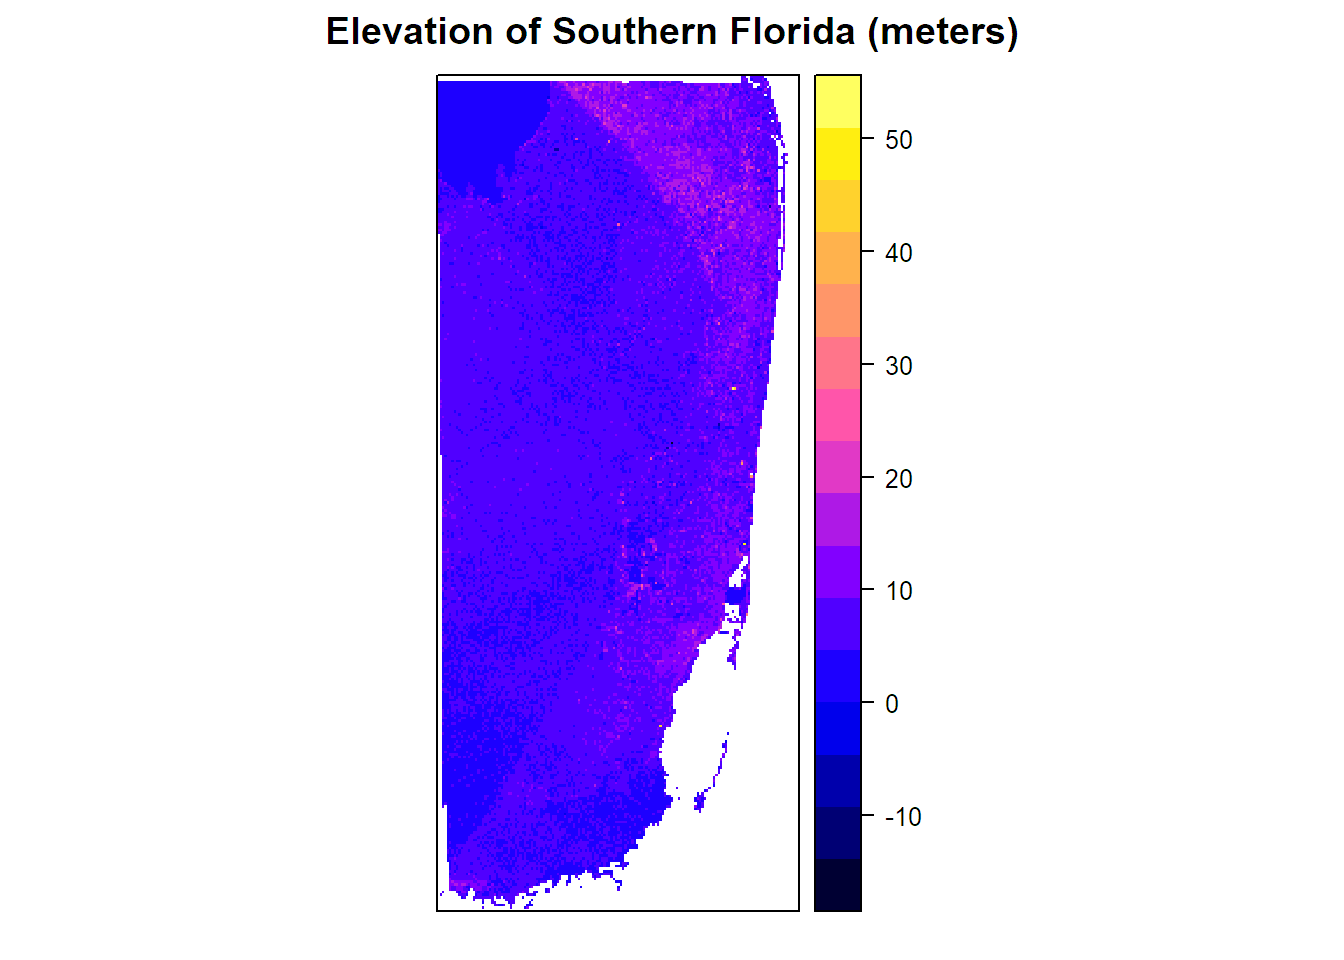
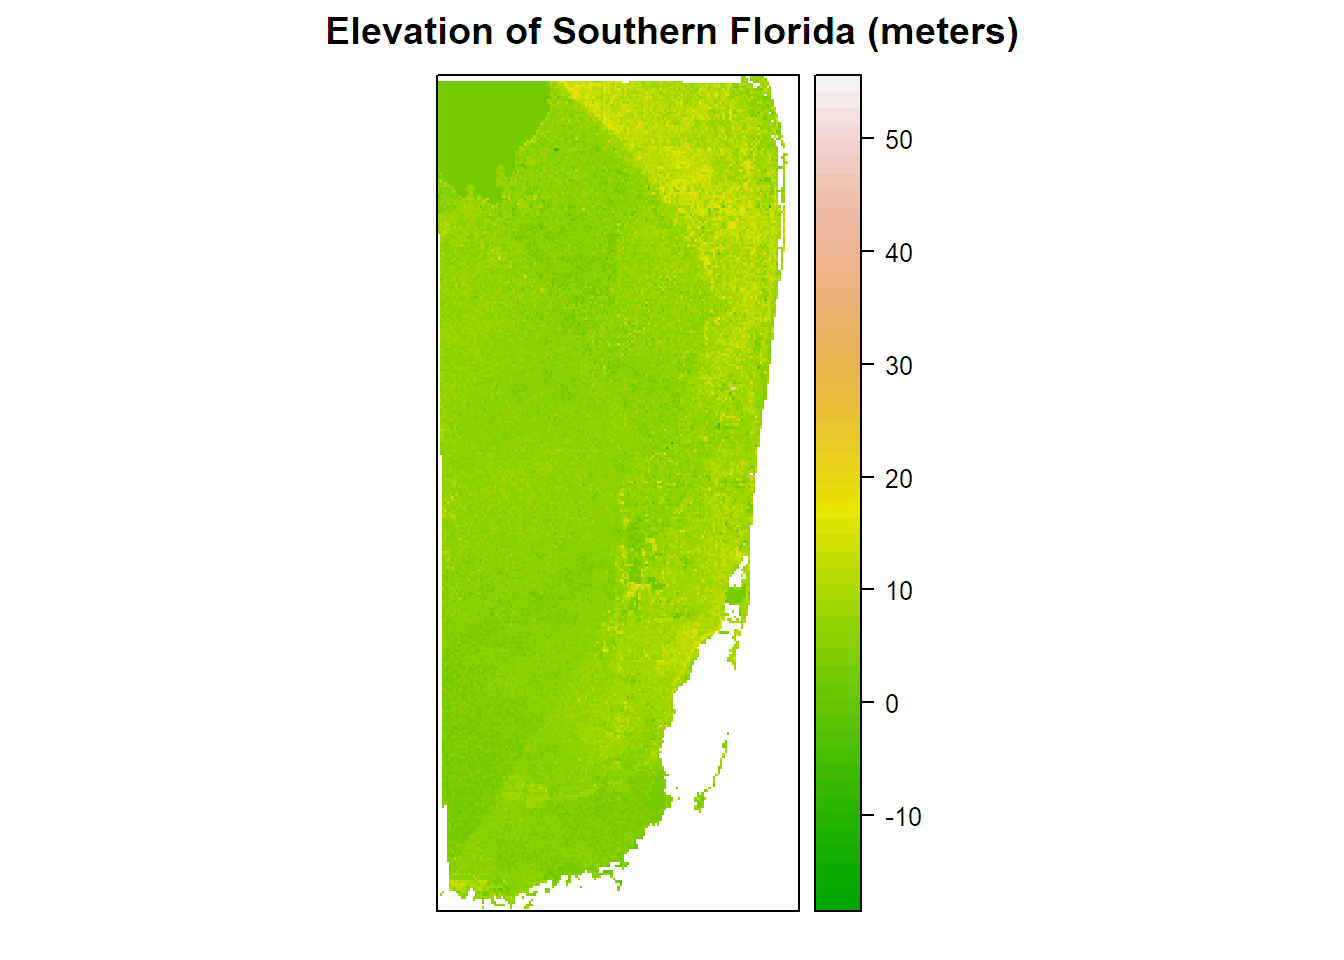
final draft

Changed region(s): [[0.3125, 0.0625, 0.6562, 0.9688]]

diff --git a/docs/index.html b/docs/index.html
@@ -344,23 +344,25 @@ comb&lt;-rbind(brwd,mi_da,plmbch)</code></pre>
 <pre class="r"><code>dem_fl&lt;-getData(&quot;SRTM&quot;,lon=-82.5,lat=27.5)
 miami_mask&lt;-mask(dem_fl,comb)
 miami_cropmask&lt;-crop(miami_mask,comb)
-spplot(miami_cropmask, main=&quot;Elevation of Southern Florida (meters)&quot;)</code></pre>
+spplot(miami_cropmask, main=&quot;Elevation of Southern Florida (meters)&quot;,col.regions=terrain.colors(51),cuts=50)</code></pre>
 <p><img src="index_files/figure-html/unnamed-chunk-3-1.png" width="672" /></p>
+<ol start="3" style="list-style-type: decimal">
+<li>Third, I created a set of side-by-side plots (plot in results below) showing the land under three different elevations, based on the storm surge and sea level rise projected scenarios. My attempts to locate historical storm surge ranges for the three counties yielded very little information. I was only able to find a list from the National Weather Service stating that the largest storm surge in Florida was 15ft in 1926, and an article (cited below) that looks at prehistorical storm surge evidence for the Gulf Florida coast, suggesting that storm surges could potentially be far worse than anticipated. With the difficulty of finding an exact storm surge range for these counties, I substituted ranges known ranges from Bangladesh in order to complete the model (Karim &amp; Mimura, 2008).</li>
+</ol>
 <pre class="r"><code>layer1 &lt;- miami_cropmask&lt;=2.76
 names(layer1)=&quot;Sea Rise 2.76m&quot;
 layer2 &lt;- miami_cropmask&lt;=5
 names(layer2)=&quot;Sea Rise 5m&quot;
 layer3 &lt;- miami_cropmask&lt;=10.97
 names(layer3)=&quot;Sea Rise 10.97m&quot;</code></pre>
-<ol start="3" style="list-style-type: decimal">
-<li><p>Third, I created a simple set of side-by-side plots showing the land under three different elevations, based on the storm surge and sea level rise projected scenarios. My attempts to locate historical storm surge ranges for the three counties yielded very little information. I was only able to find a list from the National Weather Service stating that the largest storm surge in Florida was 15ft in 1926, and an article (cited below) that looks at prehistorical storm surge evidence for the Gulf Florida coast, suggesting that storm surges could potentially be far worse than anticipated. With the difficulty of finding an exact storm surge range for these counties, I substituted ranges known ranges from Bangladesh in order to complete the model (Karim &amp; Mimura, 2008).</p></li>
-<li><p>Next, I created a map of the socio-economic data (in this case, just income data). I downloaded the block group boundaries from TIGER for all of Florida from 2015, and also downloaded an excel data file of median household income by block group for the 3 Florida counties from the US Census Bureau Factfinder website, from the 2015 ACS.</p></li>
+<ol start="4" style="list-style-type: decimal">
+<li>Next, I created a map of the socio-economic data (in this case, just income data). I downloaded the block group boundaries from TIGER for all of Florida from 2015, and also downloaded an excel data file of median household income by block group for the 3 Florida counties from the US Census Bureau Factfinder website, from the 2015 ACS.</li>
 </ol>
 <pre class="r"><code>wd=&quot;C:/Users/Hannah/Documents/School/UB/R/Final Project/Data/Florida Data&quot;
 tiger_bg_bound&lt;-readOGR(file.path(wd,&quot;tl_2015_12_bg_2015FloridaBG&quot;),layer=&quot;tl_2015_12_bg&quot;)
 income_3county &lt;- read.csv((&quot;ACS_15_5YR_B19013_with_ann.csv&quot;),header = TRUE)</code></pre>
 <ol start="5" style="list-style-type: decimal">
-<li>I joined the income data to the boundary file, in order to be able to map the income data by block group. I ran into an error in the process of trying to map this data, which I discovered was due to R reading the income column in the original csv file from Factfinder as factor data, rather than numeric values. My attempts to convert the income column to numeric have resulted in the error of the income being read incorrectly, which shows up in the income map as several distinct categories including 1,000 and 2,000, which do not match the real incomes.</li>
+<li>I joined the income data to the boundary file, in order to be able to map the income data by block group. I needed to convert the income column from factor to numeric in order to be able to use the data for my purposes.</li>
 </ol>
 <pre class="r"><code>income_map &lt;- merge(tiger_bg_bound,income_3county,by.x=&quot;GEOID&quot;,by.y=&quot;GEO.id2&quot;)
 income_map2 &lt;- income_map[complete.cases(income_map@data), ]
@@ -370,7 +372,7 @@ income_map3 &lt;- left_join(income_map3,income_map2@data,by=&quot;id&quot;)
 
 income_map3$HD01_VD01 &lt;- as.numeric(as.character(income_map3$HD01_VD01))</code></pre>
 <ol start="6" style="list-style-type: decimal">
-<li>I created related map…</li>
+<li>Using the second sea level rise scenario (which we can visually see yields the greatest variability in areas at risk of flooding - the first scenario yields very little, and in the third scenario almost all of southern Florida is at risk), I calculated and mapped (below in results) the proportion of raster cells at risk of flooding for each block group, based on overlaying the raster elevation data with the block group income data.</li>
 </ol>
 <pre class="r"><code>income_map4 &lt;- spTransform(income_map2, projection(layer2))
 income_map4$HD01_VD01 &lt;- as.numeric(as.character(income_map4$HD01_VD01))
@@ -390,21 +392,21 @@ income_map4_2 &lt;- fortify(income_map4)
 income_map4$id &lt;- row.names(income_map4)
 income_map4_2 &lt;- left_join(income_map4_2,income_map4@data,by=&quot;id&quot;)</code></pre>
 <ol start="7" style="list-style-type: decimal">
-<li>I wanted to also include a map of the sea level rise data from NOAA for the 3 counties, but my difficulties with the socio-economic data did not allow me enough time to also work on successfully using this NOAA data in R.</li>
+<li>I wanted to also include a map of the sea level rise data from NOAA for the 3 counties, but challenges in working with the socio-economic data did not allow me enough time to also work on successfully using this NOAA data in R.</li>
 </ol>
 </div>
 <div id="results" class="section level1">
 <h1>Results</h1>
-<p>The results of my methods detailed above are essentially two plots that can be visually compared for possible correlations:</p>
-<p>Description…</p>
+<p>The first map I was able to create shows the distribution of income by block group for the three counties:</p>
 <pre class="r"><code>plot_income3 &lt;- ggplot(income_map3,aes(x=long,y=lat,order=order,group=group,fill=HD01_VD01))+geom_polygon()+scale_fill_gradient(low=&quot;white&quot;,high=&quot;darkred&quot;,na.value = &quot;grey50&quot;,name=&quot;Income (USD)&quot;)+coord_map()+ggtitle(&quot;2015 Household Income by Block Group&quot;)
 plot_income3</code></pre>
-<p><img src="index_files/figure-html/unnamed-chunk-7-1.png" width="672" /> Description….</p>
-<pre class="r"><code>spplot(stack(layer1,layer2,layer3), main=&quot;Flood Risk Area under Three Sea Level Rise Scenarios Plus Storm Surge&quot;,col.regions=brewer.pal(9,&quot;YlGnBu&quot;), cuts = 8)</code></pre>
 <p><img src="index_files/figure-html/unnamed-chunk-8-1.png" width="672" /></p>
-<p>Description…</p>
+<p>The next map shows the areas that would be at risk for flooding under the three different sea level rise scenarios, as described in my methods:</p>
+<pre class="r"><code>spplot(stack(layer1,layer2,layer3), main=&quot;Flood Risk Area under Three Sea Level Rise Scenarios Plus Storm Surge&quot;,col.regions=brewer.pal(9,&quot;YlGnBu&quot;), cuts = 8)</code></pre>
+<p><img src="index_files/figure-html/unnamed-chunk-9-1.png" width="672" /></p>
+<p>Using the information from the second scenario map (5m), we can map the proportion of raster cells falling within each block group that are at risk of flooding. Darker red block groups have a higher number of cells within it that are areas at risk of flooding in proportion to the total number of cells in that block group:</p>
 <pre class="r"><code>ggplot(income_map4_2,aes(x=long,y=lat,order=order,group=group,fill=Sea.Rise.5m))+geom_polygon()+scale_fill_gradient(low=&quot;white&quot;,high=&quot;darkred&quot;,na.value = &quot;grey50&quot;,name=&quot;Proportion&quot;)+coord_map()+ggtitle(&quot;Proportion of Area at Risk Per Block&quot;)</code></pre>
-<p><img src="index_files/figure-html/unnamed-chunk-9-1.png" width="672" /> Description….</p>
+<p><img src="index_files/figure-html/unnamed-chunk-10-1.png" width="672" /> Based on the proportion of cells at risk of flooding within each block group, I calculated the correlation between proportion and income. While the results are significant (low p-value), we can also see from these results that the R-squared value is extremely low, showing a very weak relationship between the two variables:</p>
 <pre class="r"><code>lm_layer2 &lt;-  lm(HD01_VD01 ~ Sea.Rise.5m, data = income_map4)
 summary(lm_layer2)</code></pre>
 <pre><code>## 
@@ -426,17 +428,17 @@ summary(lm_layer2)</code></pre>
 ##   (56 observations deleted due to missingness)
 ## Multiple R-squared:  0.02591,    Adjusted R-squared:  0.02561 
 ## F-statistic: 86.64 on 1 and 3257 DF,  p-value: &lt; 2.2e-16</code></pre>
-<p>Description…</p>
+<p>Plotting the two variables together helps to visually demonstrate the weak relationship found from calculating their correlation:</p>
 <pre class="r"><code>ggplot(income_map4@data, aes(x = HD01_VD01, y = Sea.Rise.5m)) + 
   geom_point(color = &quot;blue&quot;) +
   geom_smooth(method = lm, color = &quot;red&quot;) +
   labs(x = &quot;Income&quot;, y = &quot;Proportion&quot;) +
   ggtitle(&quot;Relationship between Income and Proportion at Risk&quot;)</code></pre>
-<p><img src="index_files/figure-html/unnamed-chunk-11-1.png" width="672" /></p>
+<p><img src="index_files/figure-html/unnamed-chunk-12-1.png" width="672" /></p>
 </div>
 <div id="conclusions" class="section level1">
 <h1>Conclusions</h1>
-<p>Currently, I am only able to visually compare the income and elevation data for the three scenarios. The hope was to be able to run a statistical comparison, and to bring in additional socio-economic factors. To do so, I would need to reconcile the two kinds of maps, because the boundary files are from different data sources (TIGER, versus GADM), so they may not map on to each other correctly. Thus, from what I have been able to map, I am unable to draw clear conclusions about the relationships between income and risk to flooding. However, what is very clear from having mapped the three scenarios for sea level rise is that under the most extreme scenario, almost all of Florida is affected by sea level rise, thus making the comparison to income by block group an irrelevant question. What is interesting in the second scenario is that most of the remaining unaffected area is the area of the largest population density, with instead the low-population areas being almost entirely affected by sea level rise (if the water is able to reach inland). This would likely affect farmland and conserved areas, but not many Florida residences. The question of correlations between affected areas and income/race might be most relevant for the second scenario, and it would also be helpful to look at agricultural production that would be affected.</p>
+<p>From these results I can conclude that there is a very weak relationship, if any, between income per block group and areas at risk for flooding under the second sea level rise scenario. What is also very clear from having mapped the three scenarios for sea level rise is that under the most extreme scenario, almost all of Florida is affected by sea level rise, thus making the comparison to income by block group an irrelevant question. What is interesting in the second scenario is that most of the remaining unaffected area is the area of the largest population density, with instead the low-population areas being almost entirely affected by sea level rise (if the water is able to reach inland). This would likely affect farmland and conserved areas, but not many Florida residences. The question of correlations between affected areas and income/race might be most relevant for the second scenario, and it would also be helpful to look at agricultural production that would be affected.</p>
 </div>
 <div id="references" class="section level1">
 <h1>References</h1>
